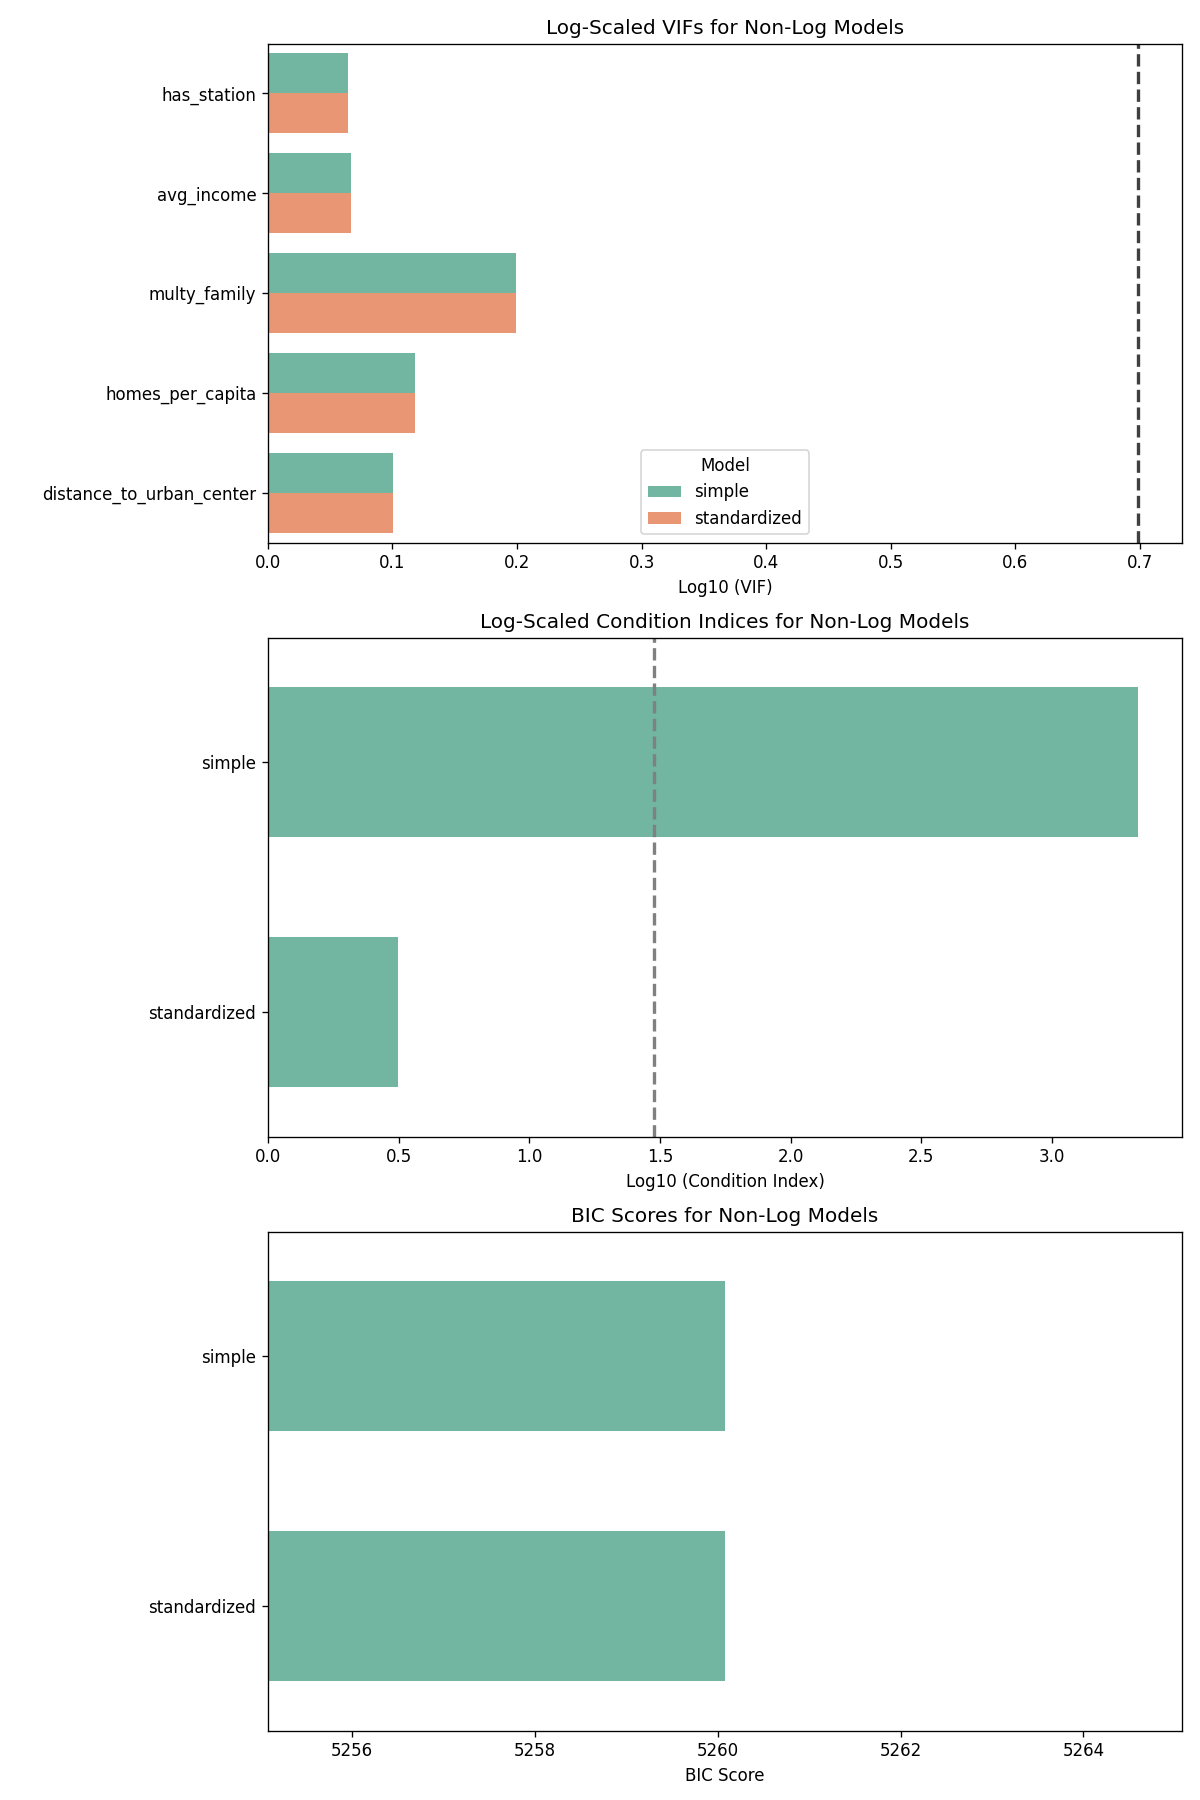
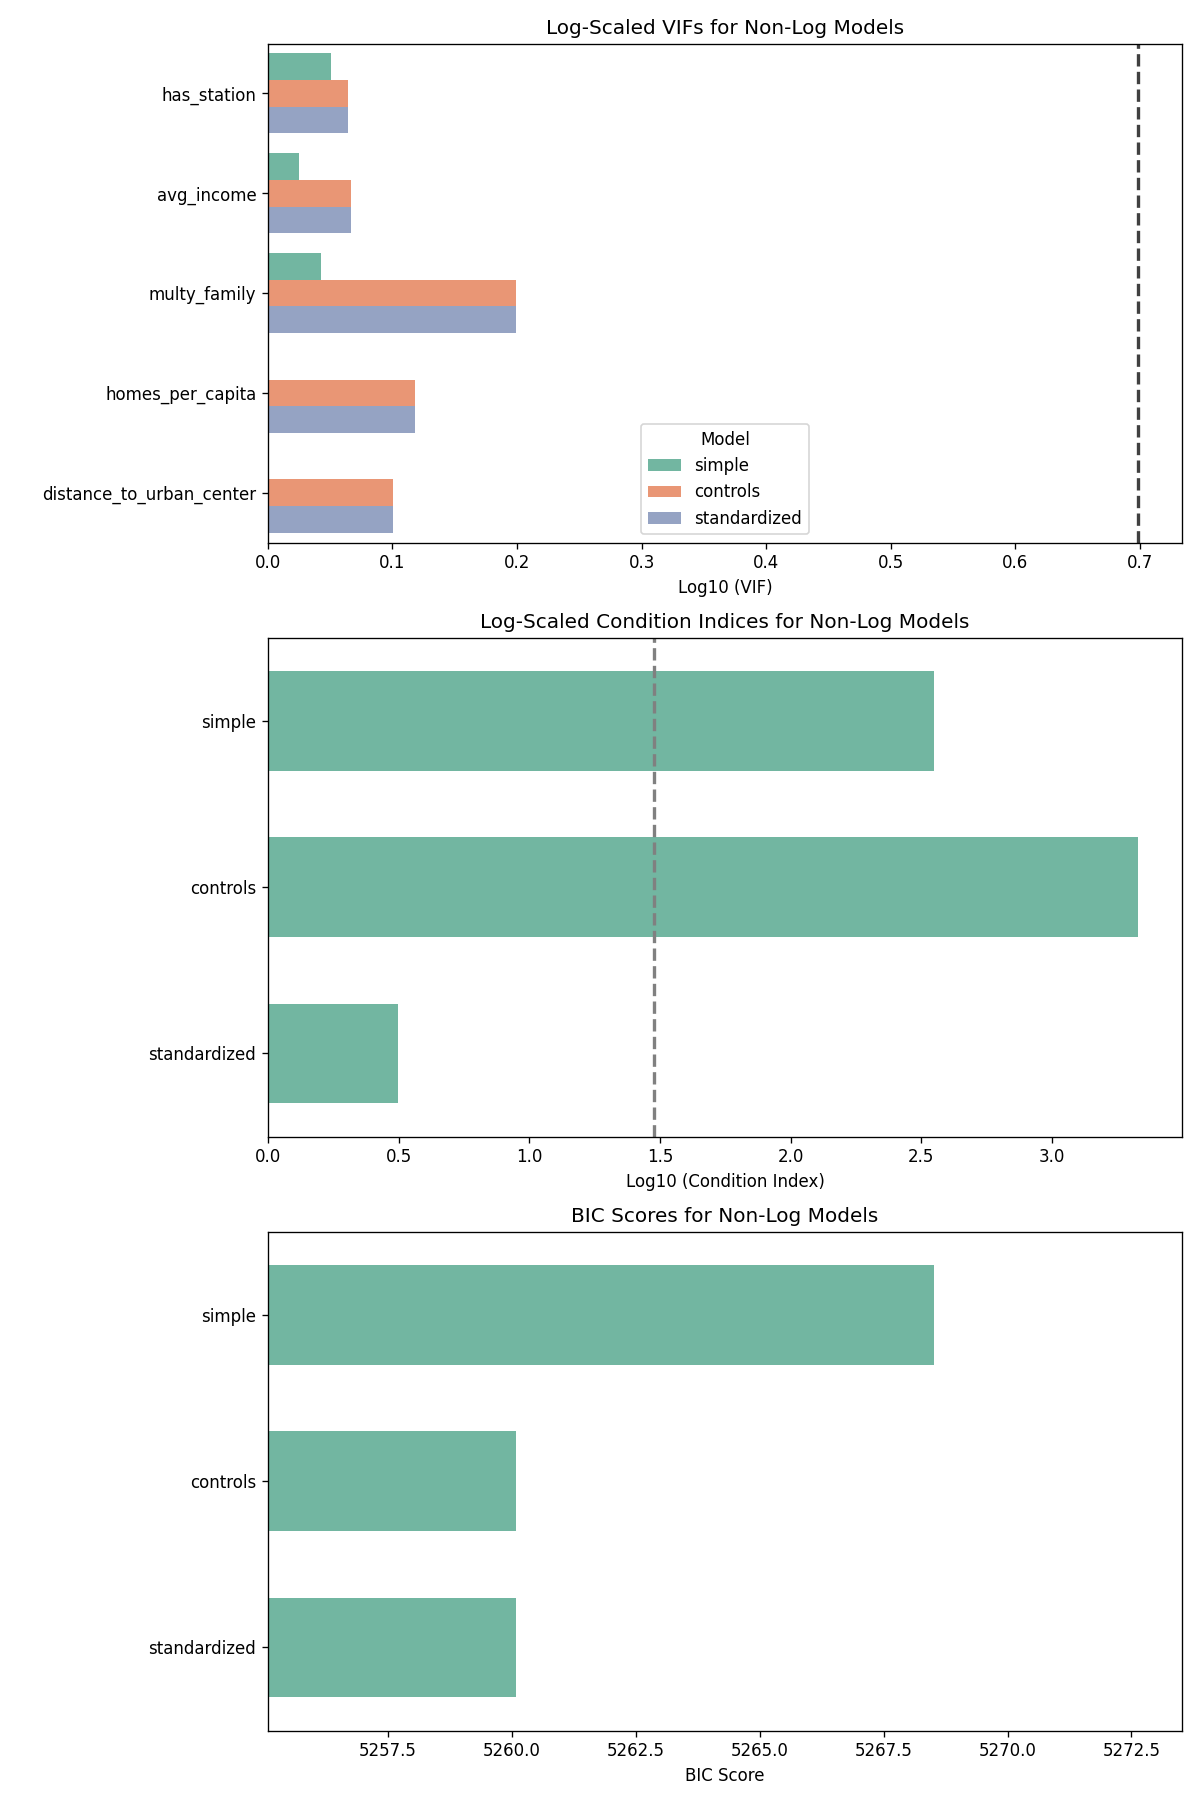
add model with less controls

diff --git a/src/analysis/phase_1/models.py b/src/analysis/phase_1/models.py
@@ -40,7 +40,7 @@ def simple(df: pd.DataFrame) -> None:
     Returns:
         None
     """
-    X = df[['has_station','avg_income', 'multy_family', 'homes_per_capita', 'distance_to_urban_center']]
+    X = df[['has_station','avg_income', 'multy_family']]
     X = sm.add_constant(X)
 
     y = df['m2_price']
@@ -48,6 +48,25 @@ def simple(df: pd.DataFrame) -> None:
     model, vif, cond_indices, bic = regression(X, y)
 
     residual_analysis(model, 'phase_1/simple_residuals.png')
+    
+    return model, vif, cond_indices, bic
+
+def controls(df: pd.DataFrame) -> None:
+    """
+    Perform a multiple linear regression with the control variables.
+
+    Parameters:
+        df (pd.DataFrame): The phase 1 dataset.
+    
+    Returns:
+        None
+    """
+    X = df[['has_station', 'avg_income', 'multy_family', 'homes_per_capita', 'distance_to_urban_center']]
+    X = sm.add_constant(X)
+
+    y = df['m2_price']
+
+    model, vif, cond_indices, bic = regression(X, y)
     
     return model, vif, cond_indices, bic
 
@@ -184,6 +203,7 @@ def create_score_summaries(df: pd.DataFrame) -> tuple[dict, dict]:
     log_results = {}
     models = {
         "simple": simple,
+        "controls": controls,
         "standardized": standardized,
         "log_transformed": log_transformed,
         "log_standardized": log_standardized,
@@ -221,10 +241,11 @@ def run_phase_1_regressions(df: pd.DataFrame) -> None:
 
     # extract only model from tuple
     simple_model, _, _, _= simple(df)
+    controls_model, _, _, _ = controls(df)
     controls_standardized_model, _, _, _ = standardized(df)
 
     logging.info("Creating summaries for Phase 1 simple models...")
-    create_reg_summaries(simple_model, controls_standardized_model, output_file=os.path.join(output_path, 'regression_summaries.tex'))
+    create_reg_summaries(simple_model, controls_model, controls_standardized_model, output_file=os.path.join(output_path, 'regression_summaries.tex'))
 
     controls_log_model, _, _, _ = log_transformed(df)
     controls_log_standardized_model, _, _, _= log_standardized(df)

diff --git a/output/tables/phase_1/regression_summaries.tex b/output/tables/phase_1/regression_summaries.tex
@@ -4,17 +4,17 @@
         \caption{Regression models}
         \vspace{10pt}
         \label{tab:regression_models}
-        \begin{tabular}{lcc}
+        \begin{tabular}{lccc}
         \hline
         \hline \\[-1.8ex]
-     & \textbf{Model 1} & \textbf{Model 2} \\
+     & \textbf{Model 1} & \textbf{Model 2} & \textbf{Model 3} \\
 \hline \\[-1.8ex] 
-const & 181.9637 (472.3880) & 3182.4230 (37.7508)*** \\
-has\_station & -32.1854 (59.5422) & -32.1854 (59.5422) \\
-avg\_income & 95.0323 (5.6375)*** & 499.3754 (29.6238)*** \\
-multy\_family & 43.5726 (2.6096)*** & 575.7017 (34.4788)*** \\
-homes\_per\_capita & -3156.9302 (889.0283)*** & -111.5976 (31.4272)*** \\
-distance\_to\_urban\_center & -2.6964 (1.1950)** & -69.4360 (30.7728)** \\
+const & -1562.5167 (223.6817)*** & 181.9637 (472.3880) & 3182.4230 (37.7508)*** \\
+has\_station & -46.0373 (60.2127) & -32.1854 (59.5422) & -32.1854 (59.5422) \\
+avg\_income & 102.4900 (5.5150)*** & 95.0323 (5.6375)*** & 499.3754 (29.6238)*** \\
+multy\_family & 42.2499 (2.2387)*** & 43.5726 (2.6096)*** & 575.7017 (34.4788)*** \\
+homes\_per\_capita & - & -3156.9302 (889.0283)*** & -111.5976 (31.4272)*** \\
+distance\_to\_urban\_center & - & -2.6964 (1.1950)** & -69.4360 (30.7728)** \\
 
         \hline
         \hline
